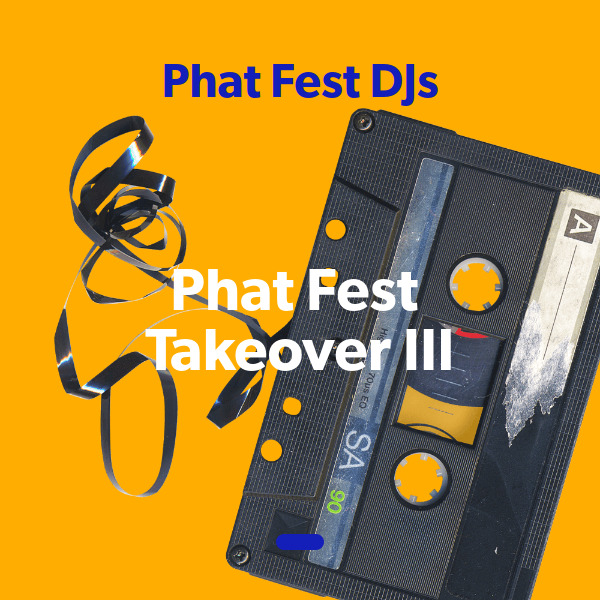
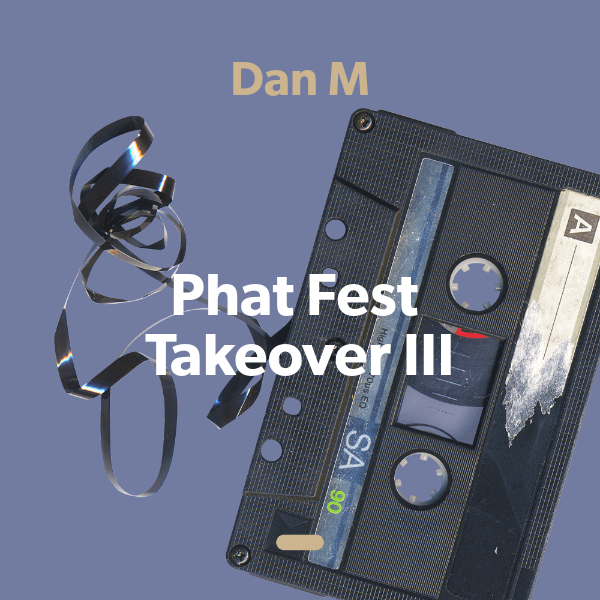
Archive updates

diff --git a/_includes/archive.md b/_includes/archive.md
@@ -35,8 +35,13 @@
 #### 7pm Collab party <a href="https://open.spotify.com/playlist/0T6beZeWtuosHFY4sfXyXv" target="_blank" title="Go to playlist"> <i class="fab fa-spotify fa-inverse"></i></a>
 ![cover art](assets/owner/images/20200509-7pm.jpeg)
 
-#### 10pm Phat Fest Takeover III
+### Phat Fest Takeover II
+
+#### 10pm Dan M <a href="https://www.mixcloud.com/Glastonauts_Live/dan-m-phat-fest-takeover-iii/" target="_blank" title="Go to recording"> <i class="fab fa-mixcloud fa-inverse"></i></a>
 ![cover art](assets/owner/images/20200509-10pm.jpeg)
+
+#### 11pm Josh <a href="https://www.mixcloud.com/Glastonauts_Live/josh-phat-fest-takeover-iii/" target="_blank" title="Go to recording"> <i class="fab fa-mixcloud fa-inverse"></i></a>
+![cover art](assets/owner/images/20200509-11pm.jpeg)
 
 #### 12.30am Ioannis
 
@@ -50,7 +55,7 @@
 #### 4pm Em <a href="https://open.spotify.com/playlist/4WjYQUZB9gHSymn5onC7m1" target="_blank" title="Go to playlist"> <i class="fab fa-spotify fa-inverse"></i></a>
 ![cover art](assets/owner/images/20200508-4pm.jpeg)
 
-#### 7pm DJ Wilky <a href="https://www.mixcloud.com/Glastonauts_Live/dj-wilky-friday-up-your-friday-with-eclectic-electronica/" target="_blank" title="Go to recording"> <i class="fab fa-mixcloud fa-inverse"></i></a>
+#### 7pm DJ Wilky 
 ![cover art](assets/owner/images/20200508-7pm.jpeg)
 
 #### 9pm batch <a href="https://www.mixcloud.com/Glastonauts_Live/batch-god-rave-the-queen/" target="_blank" title="Go to recording"> <i class="fab fa-mixcloud fa-inverse"></i></a>
